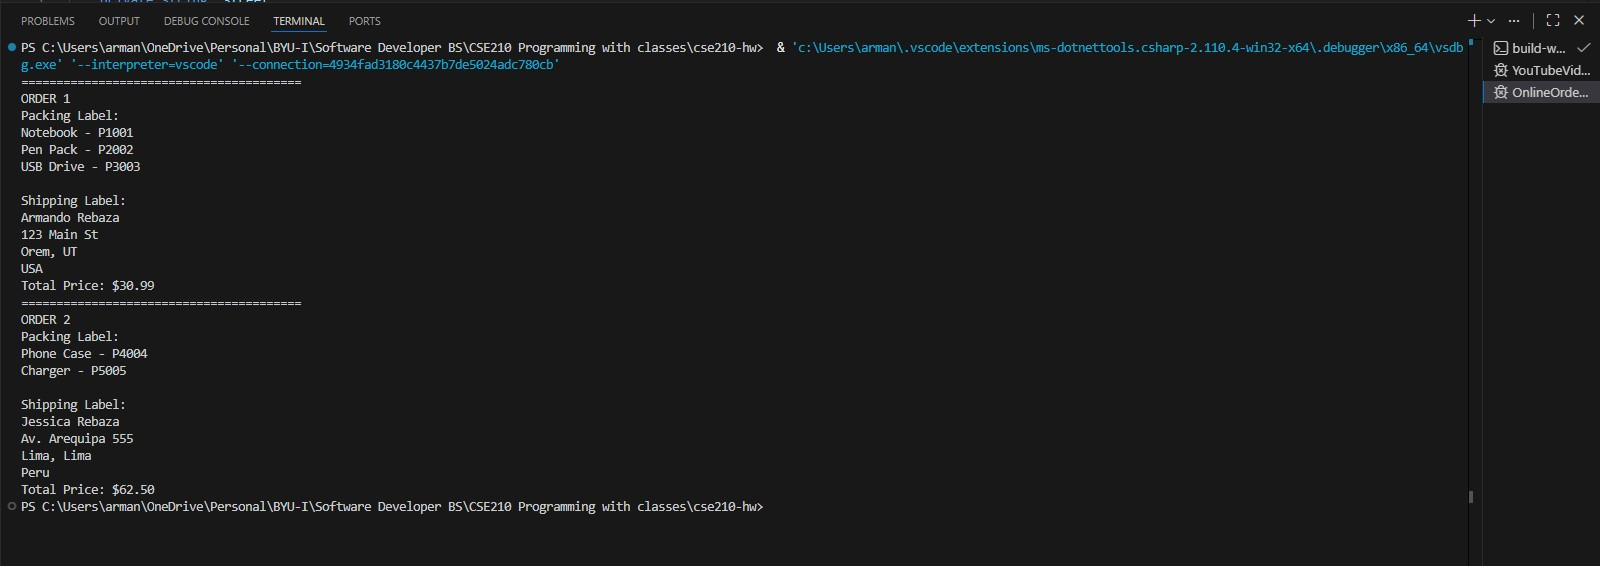
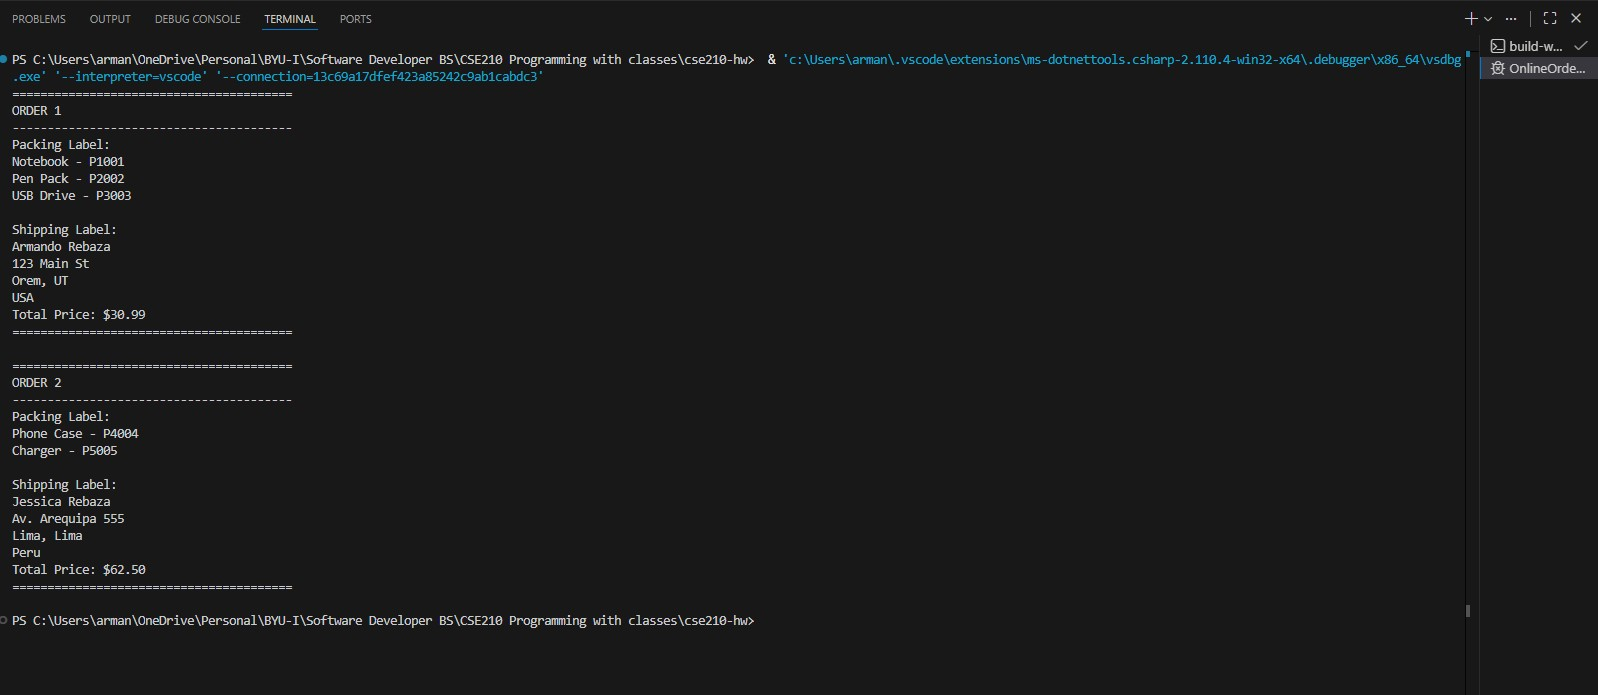
Online-3

Changed region(s): [[0.0, 0.0, 1.0, 0.6608], [0.0, 0.6908, 0.4906, 0.9011]]

diff --git a/week04/OnlineOrdering/Program.cs b/week04/OnlineOrdering/Program.cs
@@ -1,8 +1,8 @@
 /*
  * Creativity:
- * I used clear labels and formatting to make the output easy to read,
- * similar to a real order summary. This improves clarity without adding
- * extra functionality or user interaction.
+ * I formatted the output with clear headings and separators so each order’s
+ * packing label, shipping label, and total price are easy to read—similar to a
+ * real order summary—without adding any user interaction or extra features.
  */
 
 using System;
@@ -11,31 +11,35 @@ class Program
 {
     static void Main(string[] args)
     {
-        Address a1 = new Address("123 Main St", "Orem", "UT", "USA");
-        Customer c1 = new Customer("Armando Rebaza", a1);
+        // ORDER 1 (USA)
+        Address address1 = new Address("123 Main St", "Orem", "UT", "USA");
+        Customer customer1 = new Customer("Armando Rebaza", address1);
 
-        Order o1 = new Order(c1);
-        o1.AddProduct(new Producto("Notebook", "P1001", 2.50, 4));
-        o1.AddProduct(new Producto("Pen Pack", "P2002", 3.00, 2));
-        o1.AddProduct(new Producto("USB Drive", "P3003", 9.99, 1));
+        Order order1 = new Order(customer1);
+        order1.AddProduct(new Product("Notebook", "P1001", 2.50, 4));
+        order1.AddProduct(new Product("Pen Pack", "P2002", 3.00, 2));
+        order1.AddProduct(new Product("USB Drive", "P3003", 9.99, 1));
 
-        Address a2 = new Address("Av. Arequipa 555", "Lima", "Lima", "Peru");
-        Customer c2 = new Customer("Jessica Rebaza", a2);
+        // ORDER 2 (International)
+        Address address2 = new Address("Av. Arequipa 555", "Lima", "Lima", "Peru");
+        Customer customer2 = new Customer("Jessica Rebaza", address2);
 
-        Order o2 = new Order(c2);
-        o2.AddProduct(new Producto("Phone Case", "P4004", 12.00, 1));
-        o2.AddProduct(new Producto("Charger", "P5005", 15.50, 1));
+        Order order2 = new Order(customer2);
+        order2.AddProduct(new Product("Phone Case", "P4004", 12.00, 1));
+        order2.AddProduct(new Product("Charger", "P5005", 15.50, 1));
 
-        DisplayOrder("ORDER 1", o1);
-        DisplayOrder("ORDER 2", o2);
+        DisplayOrder("ORDER 1", order1);
+        DisplayOrder("ORDER 2", order2);
     }
 
     static void DisplayOrder(string title, Order order)
     {
         Console.WriteLine("========================================");
         Console.WriteLine(title);
+        Console.WriteLine("----------------------------------------");
         Console.WriteLine(order.GetPackingLabel());
         Console.WriteLine(order.GetShippingLabel());
         Console.WriteLine($"Total Price: ${order.GetTotalPrice():0.00}");
+        Console.WriteLine("========================================\n");
     }
 }

diff --git a/week04/OnlineOrdering/Order.cs b/week04/OnlineOrdering/Order.cs
@@ -3,16 +3,16 @@ using System.Text;
 
 public class Order
 {
-    private List<Producto> _products;
+    private List<Product> _products;
     private Customer _customer;
 
     public Order(Customer customer)
     {
         _customer = customer;
-        _products = new List<Producto>();
+        _products = new List<Product>();
     }
 
-    public void AddProduct(Producto product)
+    public void AddProduct(Product product)
     {
         _products.Add(product);
     }
@@ -25,20 +25,23 @@ public class Order
     public double GetTotalPrice()
     {
         double total = 0;
-        foreach (Producto p in _products)
+
+        foreach (Product product in _products)
         {
-            total += p.GetTotalCost();
+            total += product.GetTotalCost();
         }
-        return total + GetShippingCost();
+
+        total += GetShippingCost();
+        return total;
     }
 
     public string GetPackingLabel()
     {
         StringBuilder sb = new StringBuilder();
         sb.AppendLine("Packing Label:");
-        foreach (Producto p in _products)
+        foreach (Product product in _products)
         {
-            sb.AppendLine($"{p.GetName()} - {p.GetProductId()}");
+            sb.AppendLine($"{product.GetName()} - {product.GetProductId()}");
         }
         return sb.ToString();
     }

diff --git a/week04/OnlineOrdering/Product.cs b/week04/OnlineOrdering/Product.cs
@@ -1,11 +1,11 @@
-public class Producto
+public class Product
 {
     private string _name;
     private string _productId;
     private double _price;
     private int _quantity;
 
-    public Producto(string name, string productId, double price, int quantity)
+    public Product(string name, string productId, double price, int quantity)
     {
         _name = name;
         _productId = productId;
@@ -13,8 +13,15 @@ public class Producto
         _quantity = quantity;
     }
 
-    public string GetName() => _name;
-    public string GetProductId() => _productId;
+    public string GetName()
+    {
+        return _name;
+    }
+
+    public string GetProductId()
+    {
+        return _productId;
+    }
 
     public double GetTotalCost()
     {

diff --git a/week04/OnlineOrdering/Address.cs b/week04/OnlineOrdering/Address.cs
@@ -15,8 +15,8 @@ public class Address
 
     public bool IsInUSA()
     {
-        string c = _country.ToUpper();
-        return c == "USA" || c == "UNITED STATES" || c == "UNITED STATES OF AMERICA";
+        string c = _country.Trim().ToUpper();
+        return c == "USA" || c == "US" || c == "UNITED STATES" || c == "UNITED STATES OF AMERICA";
     }
 
     public string GetFullAddress()
